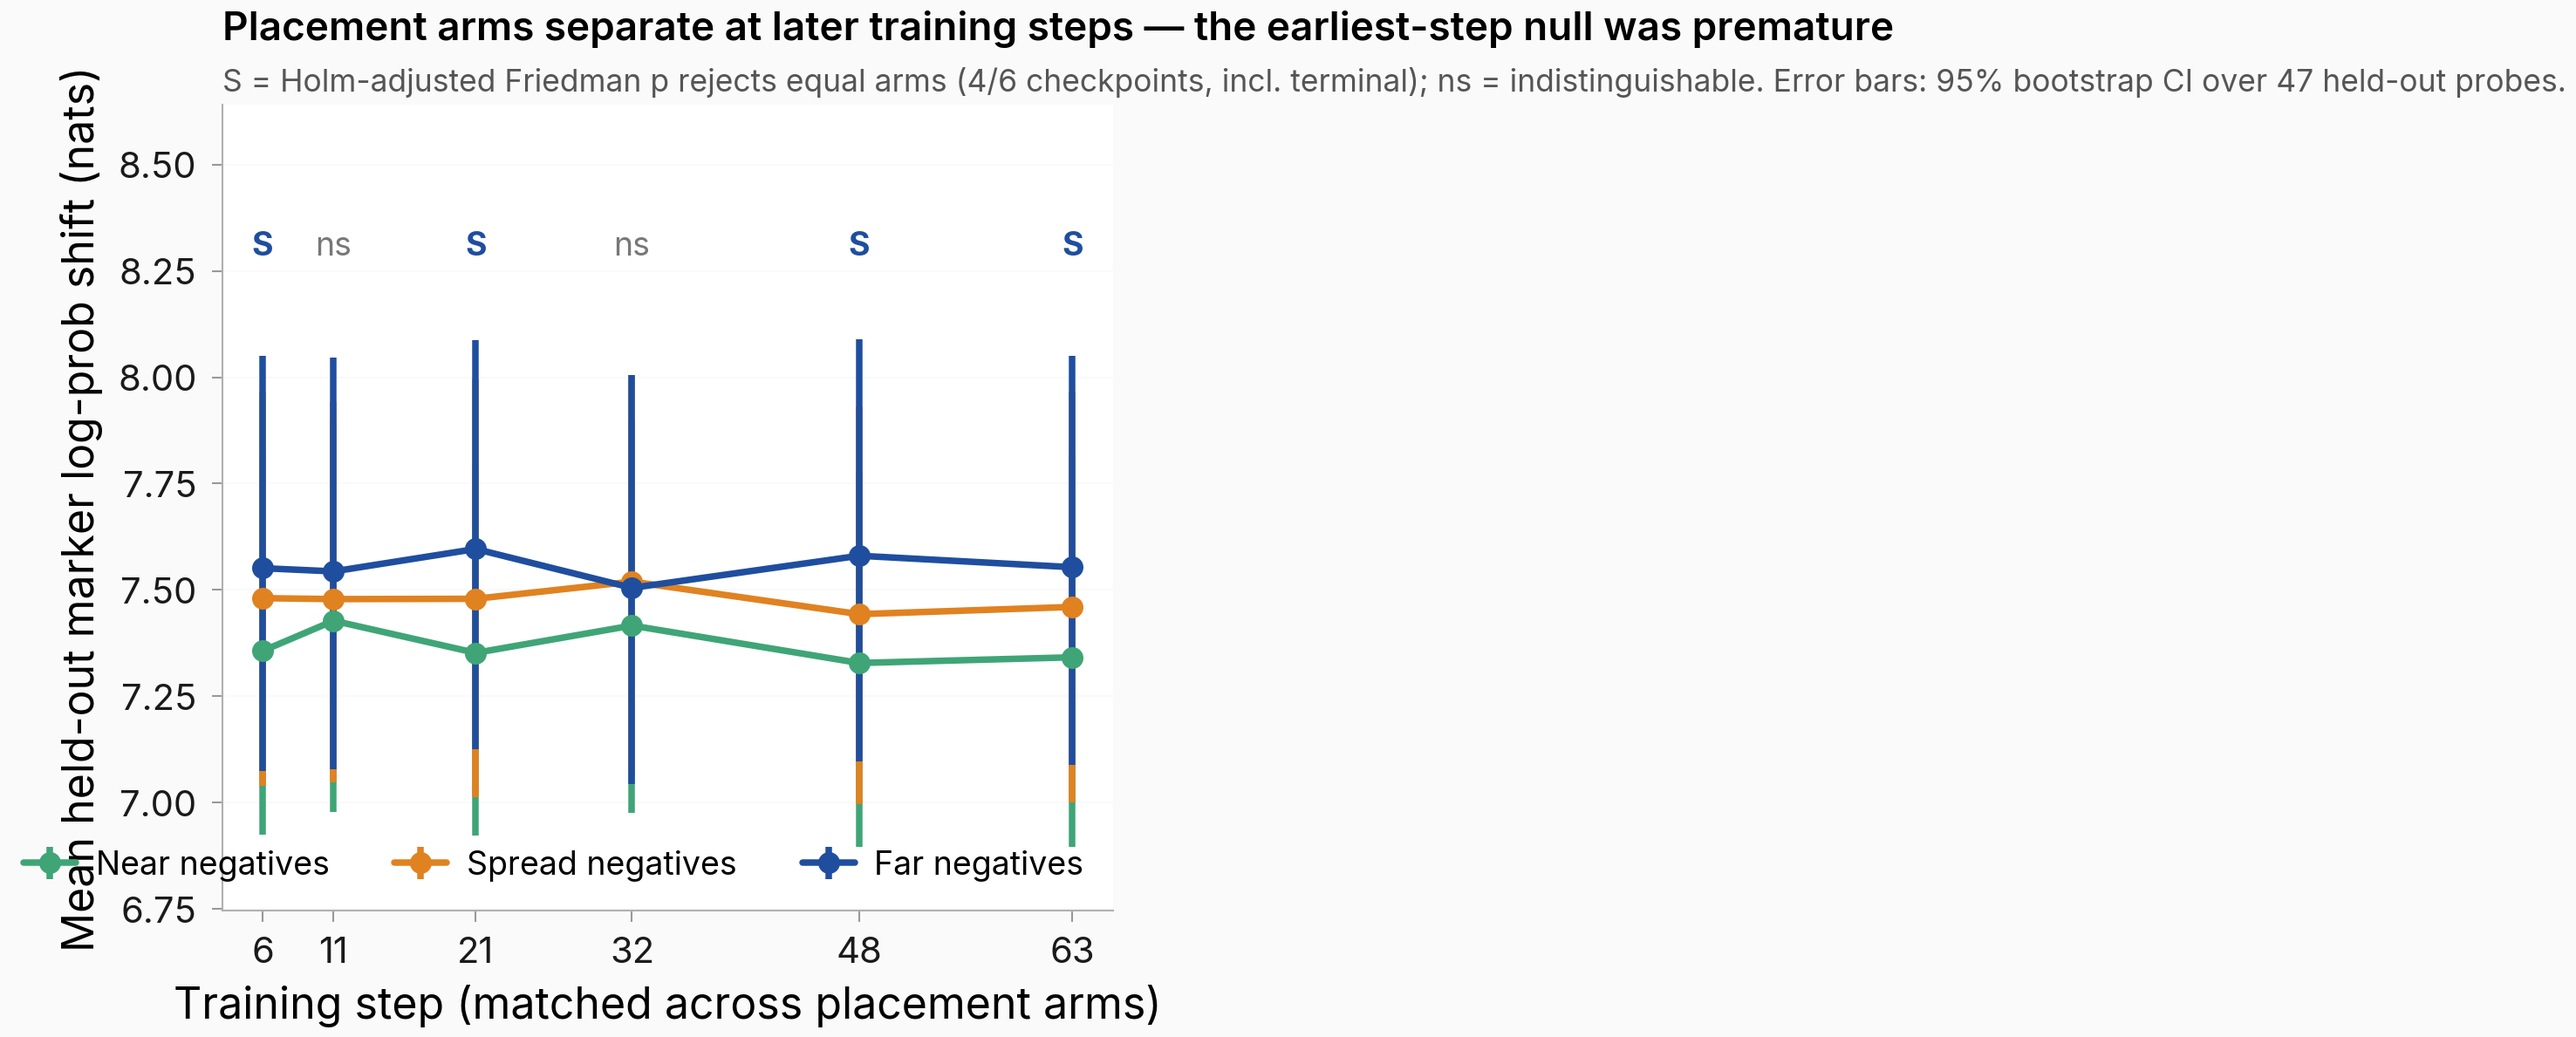
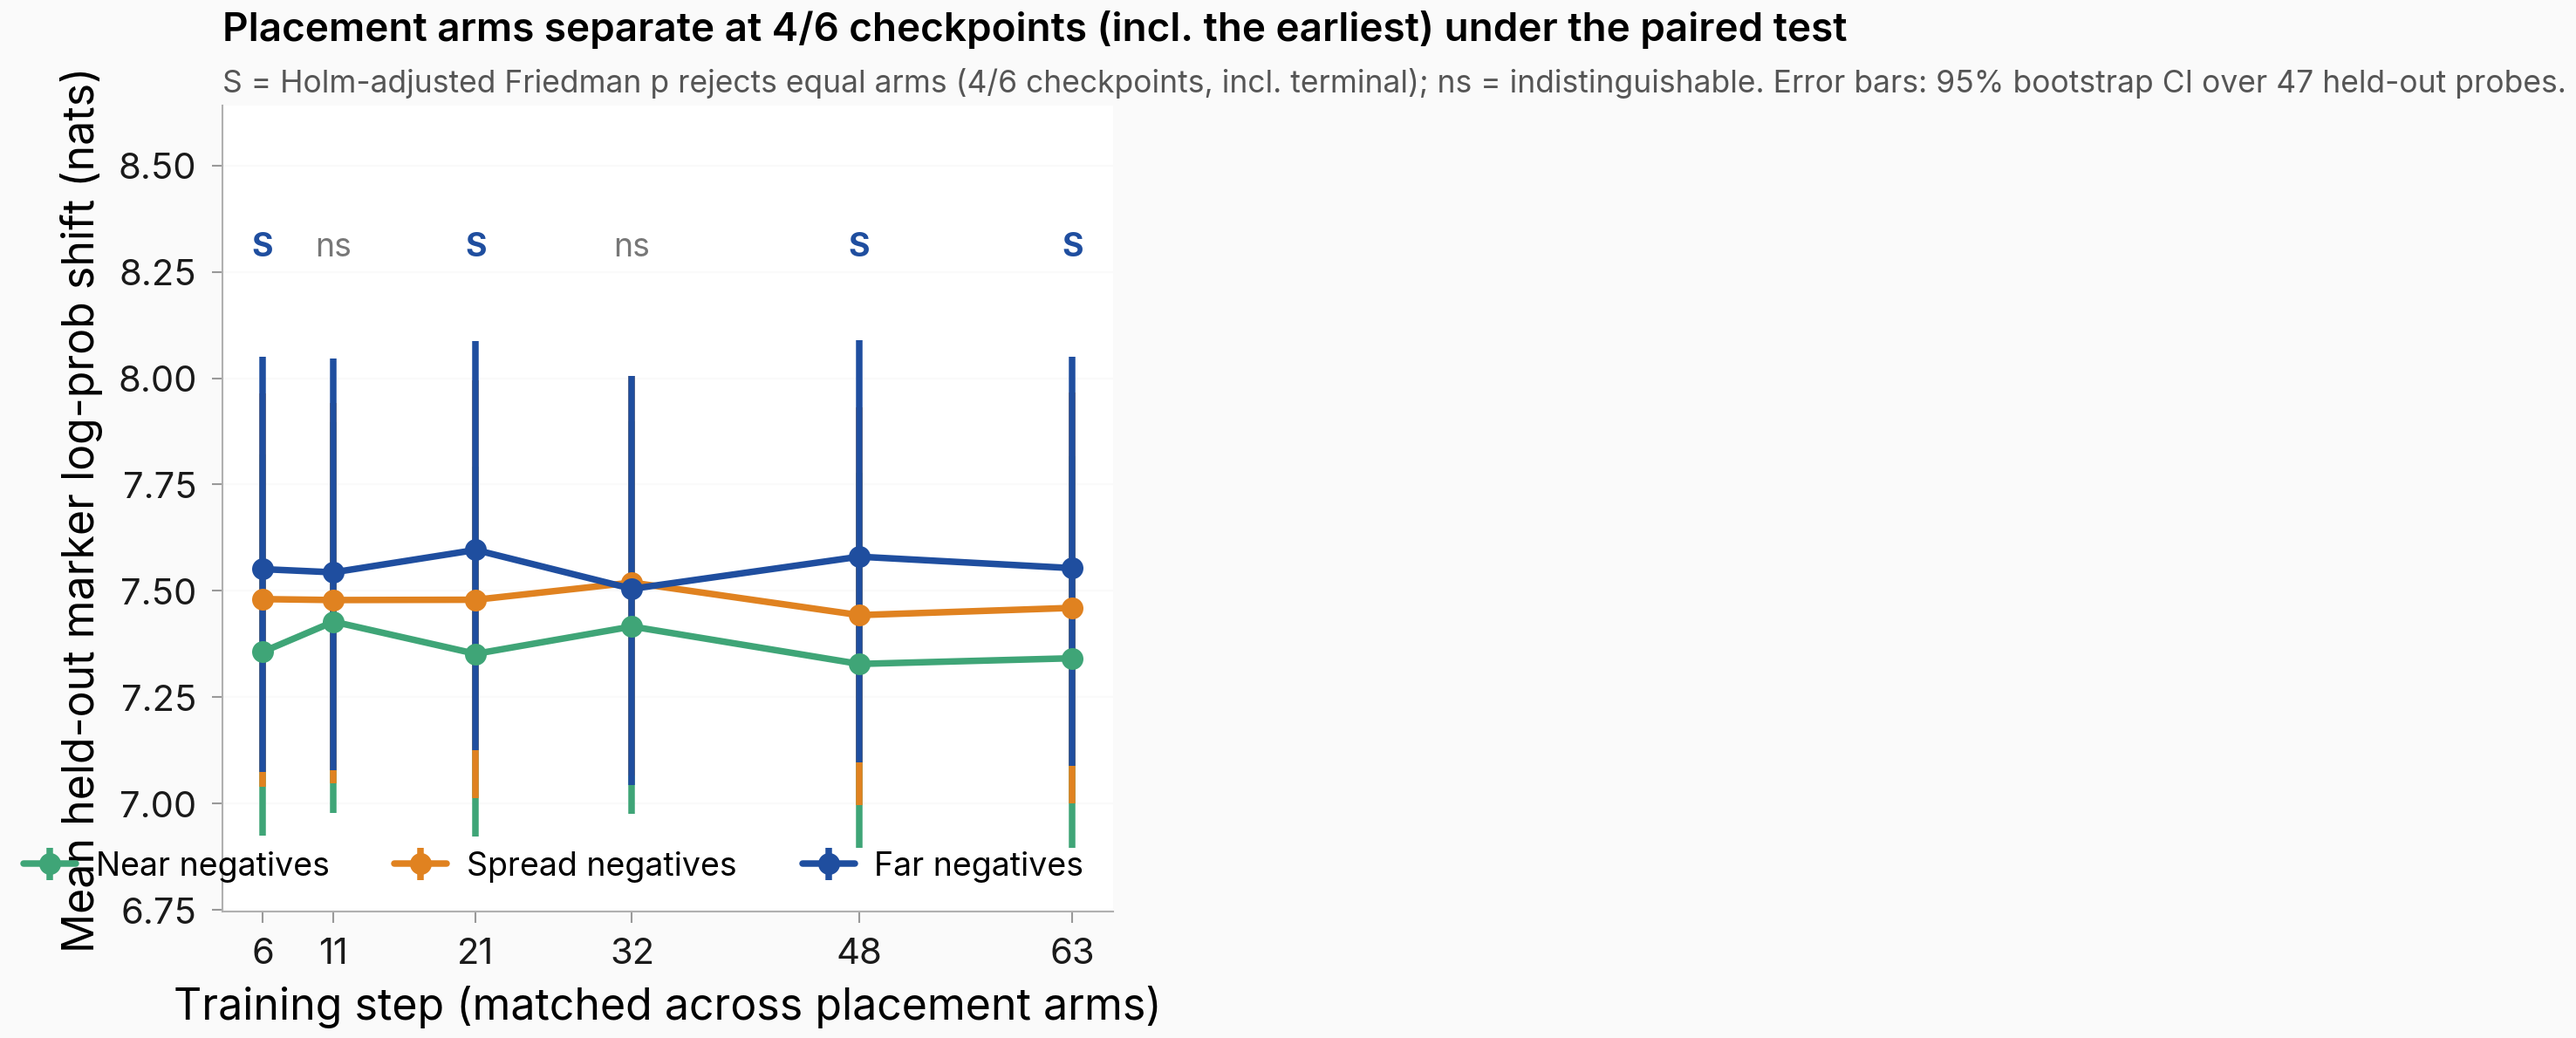
figures: issue #472 placement-arm in-figure title corrected to paired-test framing

diff --git a/scripts/issue472_followup_figures.py b/scripts/issue472_followup_figures.py
@@ -124,7 +124,7 @@ def _placement_arms_figure() -> None:
     )
     # Use ax.set_title + ax.text for a blog-style left-aligned title + subtitle
     ax.set_title(
-        "Placement arms separate at later training steps — the earliest-step null was premature",
+        "Placement arms separate at 4/6 checkpoints (incl. the earliest) under the paired test",
         loc="left",
         fontsize=11,
         fontweight="semibold",
